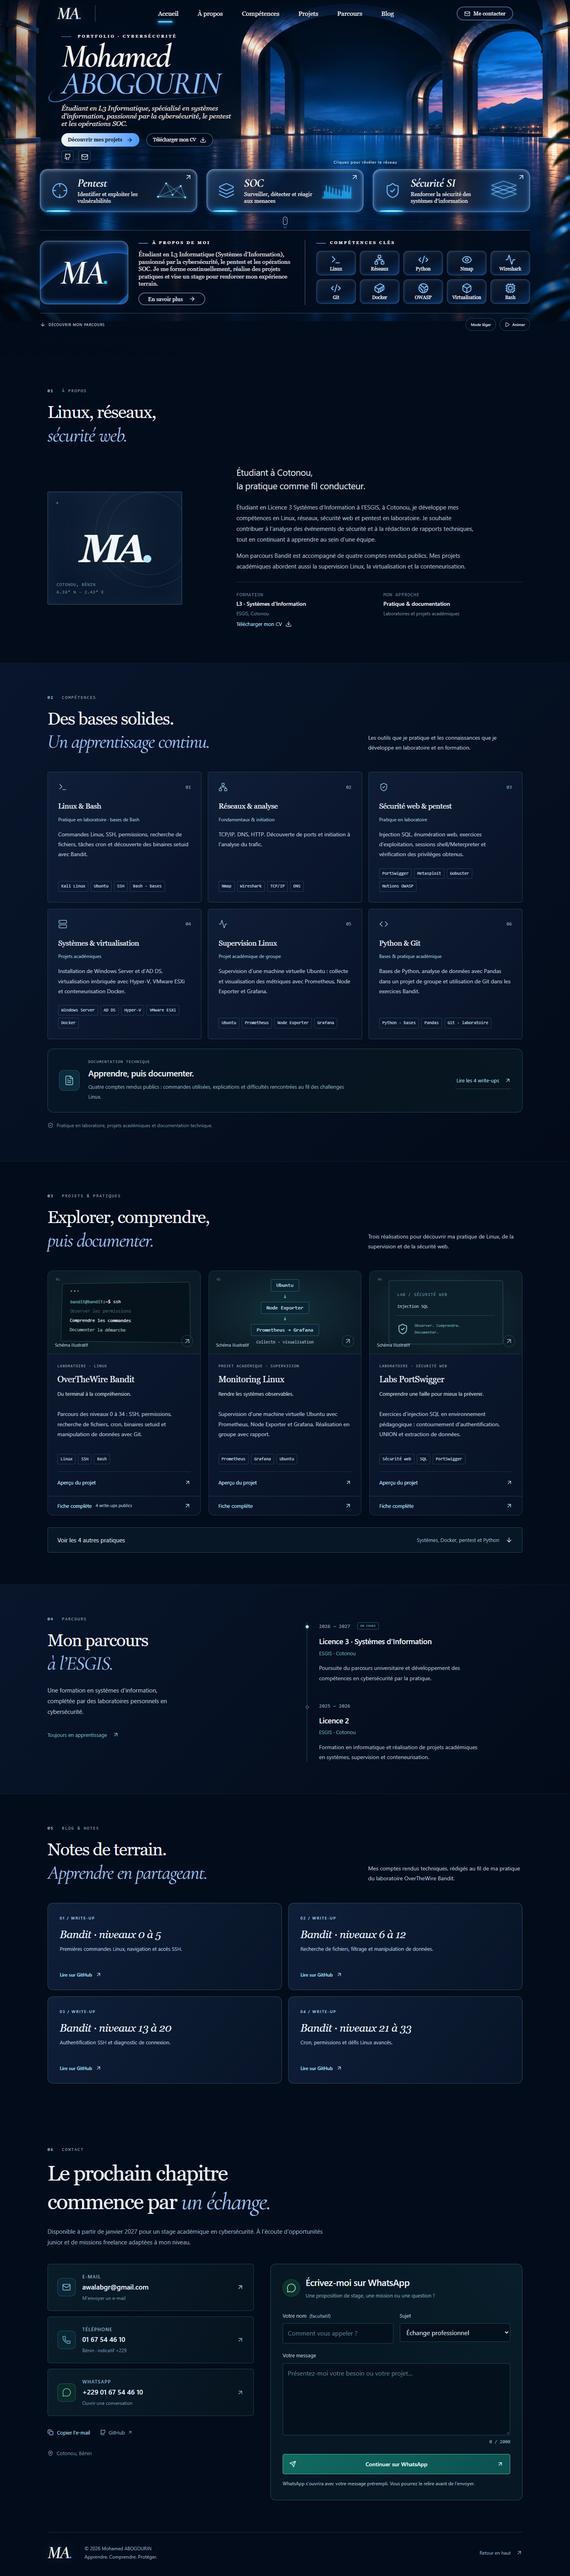
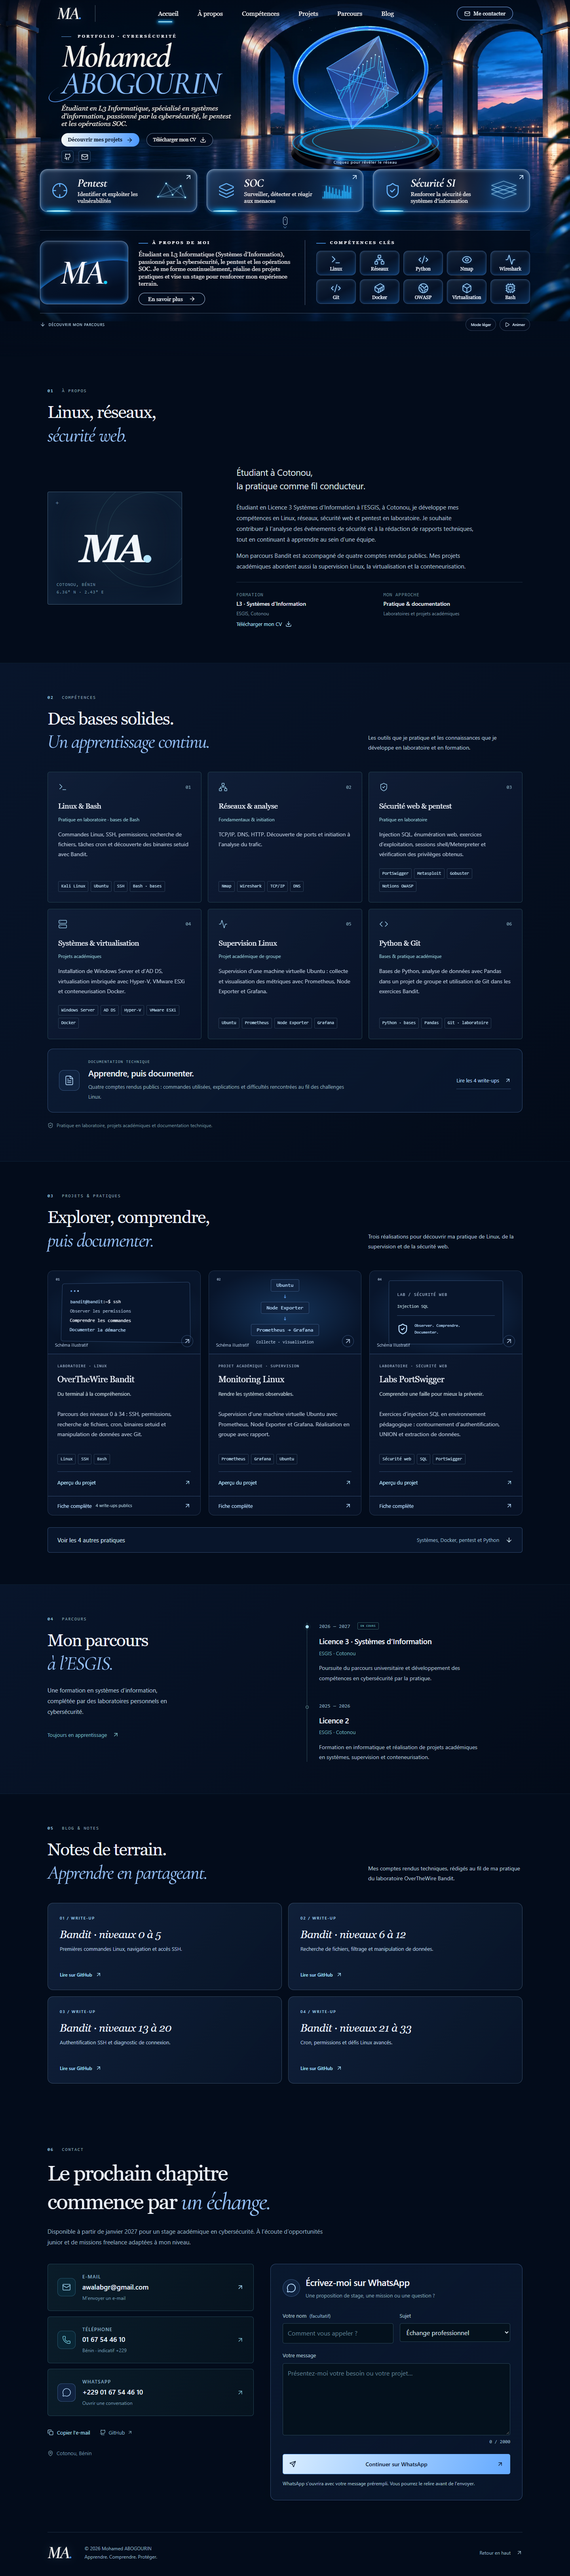
Unify project diagrams and contact with the approved V2 blue palette

diff --git a/cyber-portofolio/src/v2-theme.css b/cyber-portofolio/src/v2-theme.css
@@ -23,6 +23,37 @@ body{background:#060c1c;color:#edf2fa}
 .monogram>span{color:#b4e5ff}
 .text-button,.project-more,.contact-email{color:#b3e5ff}
 .contact-email{border-color:#a1d8ff70}
+/* One V2 palette for every project diagram, preview and full case study. */
+:root{--project-night:#08152b;--project-panel:#102340;--project-line:#6492cc6b;--project-ice:#b7dcff;--project-muted:#a5bad4;--project-blue:#65aaff}
+.project-visual,.dialog-illustration{background:radial-gradient(ellipse at center,#15345a,var(--project-night) 75%);border-color:var(--project-line)}
+.project-terminal,.web-visual{background:var(--project-night);border-color:var(--project-line);color:#edf2fa}
+.project-terminal p>span,.project-terminal .terminal-success,.web-visual b,.web-visual>div,.data-diagram{color:var(--project-ice)}
+.project-terminal .muted,.web-visual>span,.container-diagram>p,.monitoring-diagram>small{color:var(--project-muted)}
+.project-terminal .window-dots i:nth-child(1){background:var(--project-blue)}
+.project-terminal .window-dots i:nth-child(2){background:#88bbf8}
+.project-terminal .window-dots i:nth-child(3){background:var(--project-ice)}
+.container-diagram>div,.monitoring-diagram>span{background:var(--project-panel);border-color:var(--project-line);color:var(--project-ice)}
+.container-diagram .connector,.monitoring-diagram>i,.data-diagram>i{color:var(--project-blue)}
+.monitoring-diagram{color:var(--project-ice)}
+.web-visual code,.project-more,.project-page-link,.case-content .project-visual,.case-sidebar,.project-page-header{border-color:var(--project-line)}
+.project-number,.project-expand,.visual-caption,.dialog-role,.case-summary,.case-sidebar p,.share-status{color:var(--project-muted)}
+.project-expand{border-color:var(--project-line)}
+.project-page-link,.practice-block h3,.practice-evidence-links>a{color:var(--project-ice)}
+.project-page-link:hover,.practice-evidence-links>a:hover{background:var(--project-panel);border-color:var(--project-blue)}
+.more-projects>summary,.case-sidebar,.project-dialog,.dialog-toolbar{background:var(--project-night);border-color:var(--project-line)}
+.project-dialog{color:#edf2fa}
+.dialog-toolbar>span,.practice-evidence>p.practice-evidence-label,.project-dialog .practice-block>p,.project-dialog .practice-block li,.case-study .practice-block>p,.case-study .practice-block li{color:var(--project-muted)}
+.practice-evidence{border-color:var(--project-line)}
+.practice-block li::marker{color:var(--project-blue)}
+.practice-evidence-links>a{background:#10234073;border-color:var(--project-line)}
+.more-projects>summary:focus-visible{outline-color:var(--project-blue)}
+.project-content .eyebrow{color:var(--project-muted)}
+.documentation-strip,.contact-method,.whatsapp-form{background:linear-gradient(135deg,#10234080,var(--project-night));border-color:var(--project-line)}
+.documentation-icon,.contact-whatsapp .contact-method-icon,.form-heading-icon{color:var(--project-ice);background:var(--project-panel);border-color:var(--project-line)}
+.documentation-strip>a,.whatsapp-ready,.whatsapp-ready a{color:var(--project-ice);border-color:var(--project-line)}
+.documentation-strip>a:hover,.contact-whatsapp:hover{border-color:var(--project-blue)}
+.whatsapp-submit{background:linear-gradient(110deg,#d9edff,#65aaff);border-color:var(--project-blue);color:var(--project-night)}
+.whatsapp-submit:hover{background:#a9d2ff;box-shadow:0 0 18px #438fff26}
 @media(max-width:900px){.immersive-header .nav{background:#071127f7;border-bottom:1px solid #b2ddff40}.immersive-header .nav a.active{background:#b8e8ff1a}}
 
 /* Published technical notes, linked to real GitHub write-ups. */

diff --git a/cyber-portofolio/LIVRAISON-V2.md b/cyber-portofolio/LIVRAISON-V2.md
@@ -12,12 +12,15 @@ Cette version est destinée à la validation. Aucun workflow ne déploie le site
 - [Accueil mobile 390 × 844](screenshots/accueil-390x844.png)
 - [Cristal ouvert](screenshots/cristal-ouvert-1536x864.png)
 - [Page desktop complète](screenshots/page-1536.png) et [page mobile complète](screenshots/page-390.png)
+- Palette des projets harmonisée : [desktop](screenshots/projets-1440x900.png), [mobile](screenshots/projets-390x844.png) et [fiche projet](screenshots/projet-detail-1440x900.png).
 
 La prévisualisation est publique et porte l’en-tête `X-Robots-Tag: noindex, nofollow`, ainsi qu’un `robots.txt` interdisant l’indexation. Ce n’est pas un contrôle d’accès.
 
 ## Réalisation
 
 L’interface reprend la composition de la référence finale : arches de pierre éclairées, ciel bleu et rose, montagnes, sol sombre, nom en serif italique ivoire et bleu glacé, cartes vitrées, monogramme et grille de dix compétences. L’interface est véritablement responsive ; le décor ne contient ni texte, ni carte, ni cristal. Sa provenance et son prompt sont dans [design/REFERENCE.md](design/REFERENCE.md).
+
+La palette V2 s’applique également aux schémas, terminaux, voyants, aperçus et fiches de tous les projets : bleu nuit, bleu glacé et bleu lumineux. Les anciens accents verts ont été retirés. Le bloc de documentation et le contact WhatsApp emploient aussi cette palette. Les couleurs communes sont regroupées dans `src/v2-theme.css`.
 
 Le cristal Three.js comporte huit facettes transparentes distinctes avec reflets d’environnement et traits spéculaires, des circuits internes, des particules, un anneau à ruban et traînées indépendant, un socle à plusieurs anneaux lumineux. Au clic, Entrée ou Espace, les facettes s’écartent et dévoilent un réseau de dix nœuds. Le second clic referme la géométrie. Le bouton expose son état et un statut textuel est annoncé.
 
